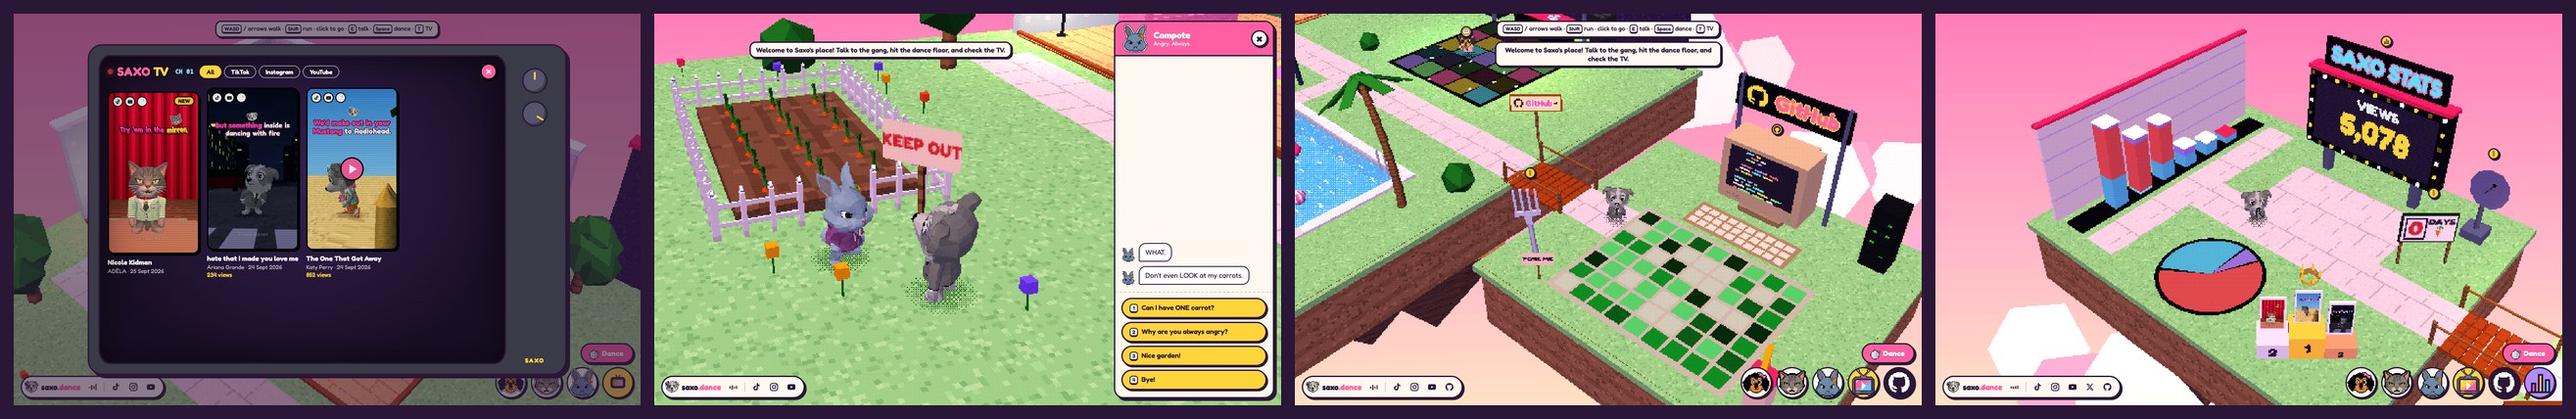
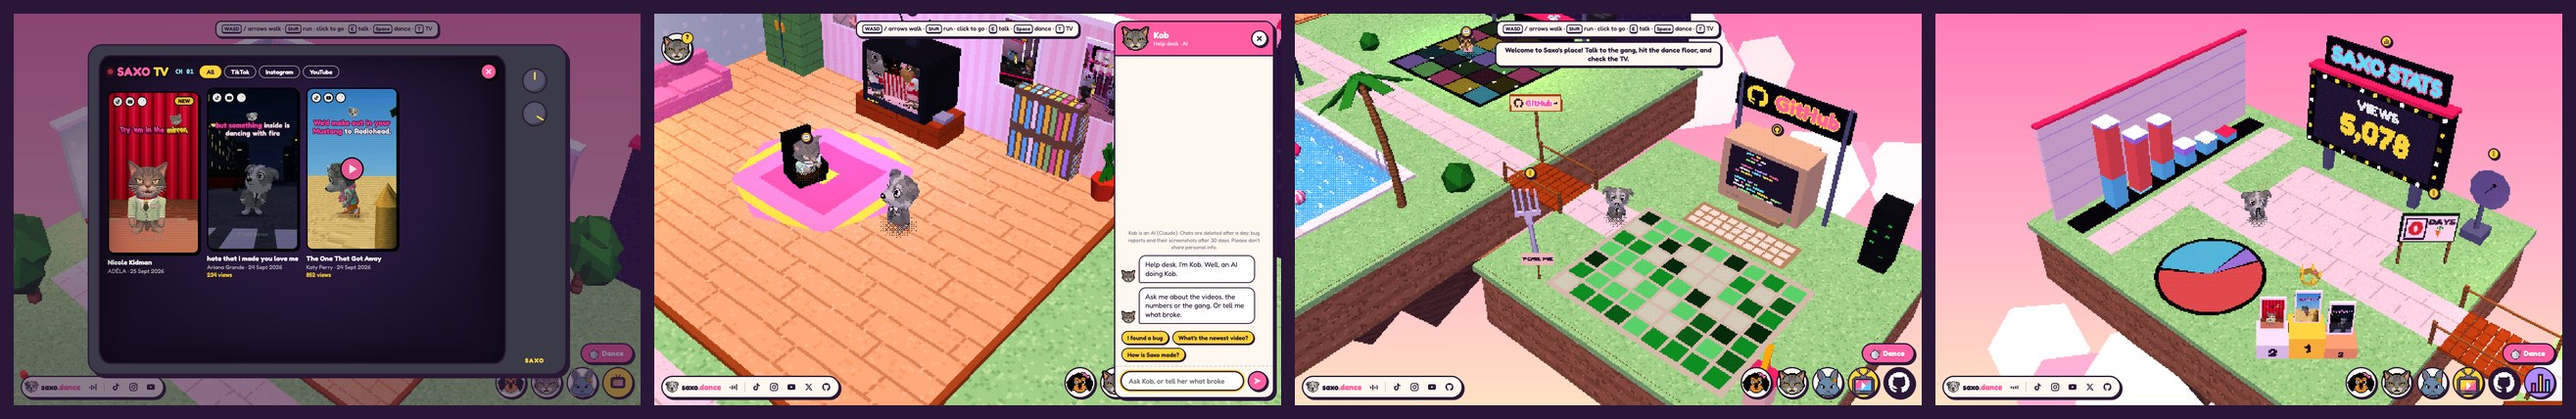
Sync with 5152a71: docs(readme): show Kob's help desk in the site image

Changed region(s): [[0.2494, 0.0304, 0.4989, 0.972]]

diff --git a/README.md b/README.md
@@ -200,7 +200,7 @@ renders. Frames can be drawn out of order in parallel tabs, and an interrupted r
 </p>
 
 <p align="center">
-  <img src="docs/readme/site.jpg" width="100%" alt="Saxo TV with every posted video, a chat with Compote in her carrot garden, the GitHub island, and the stats island with its scoreboard, bar chart, pie and podium">
+  <img src="docs/readme/site.jpg" width="100%" alt="Saxo TV with every posted video, Kob's help desk beside her gaming chair, the GitHub island, and the stats island with its scoreboard, bar chart, pie and podium">
 </p>
 
 A playable version of the channel in the same PS1 look. Walk Saxo around a floating diorama (the living room, the club,
